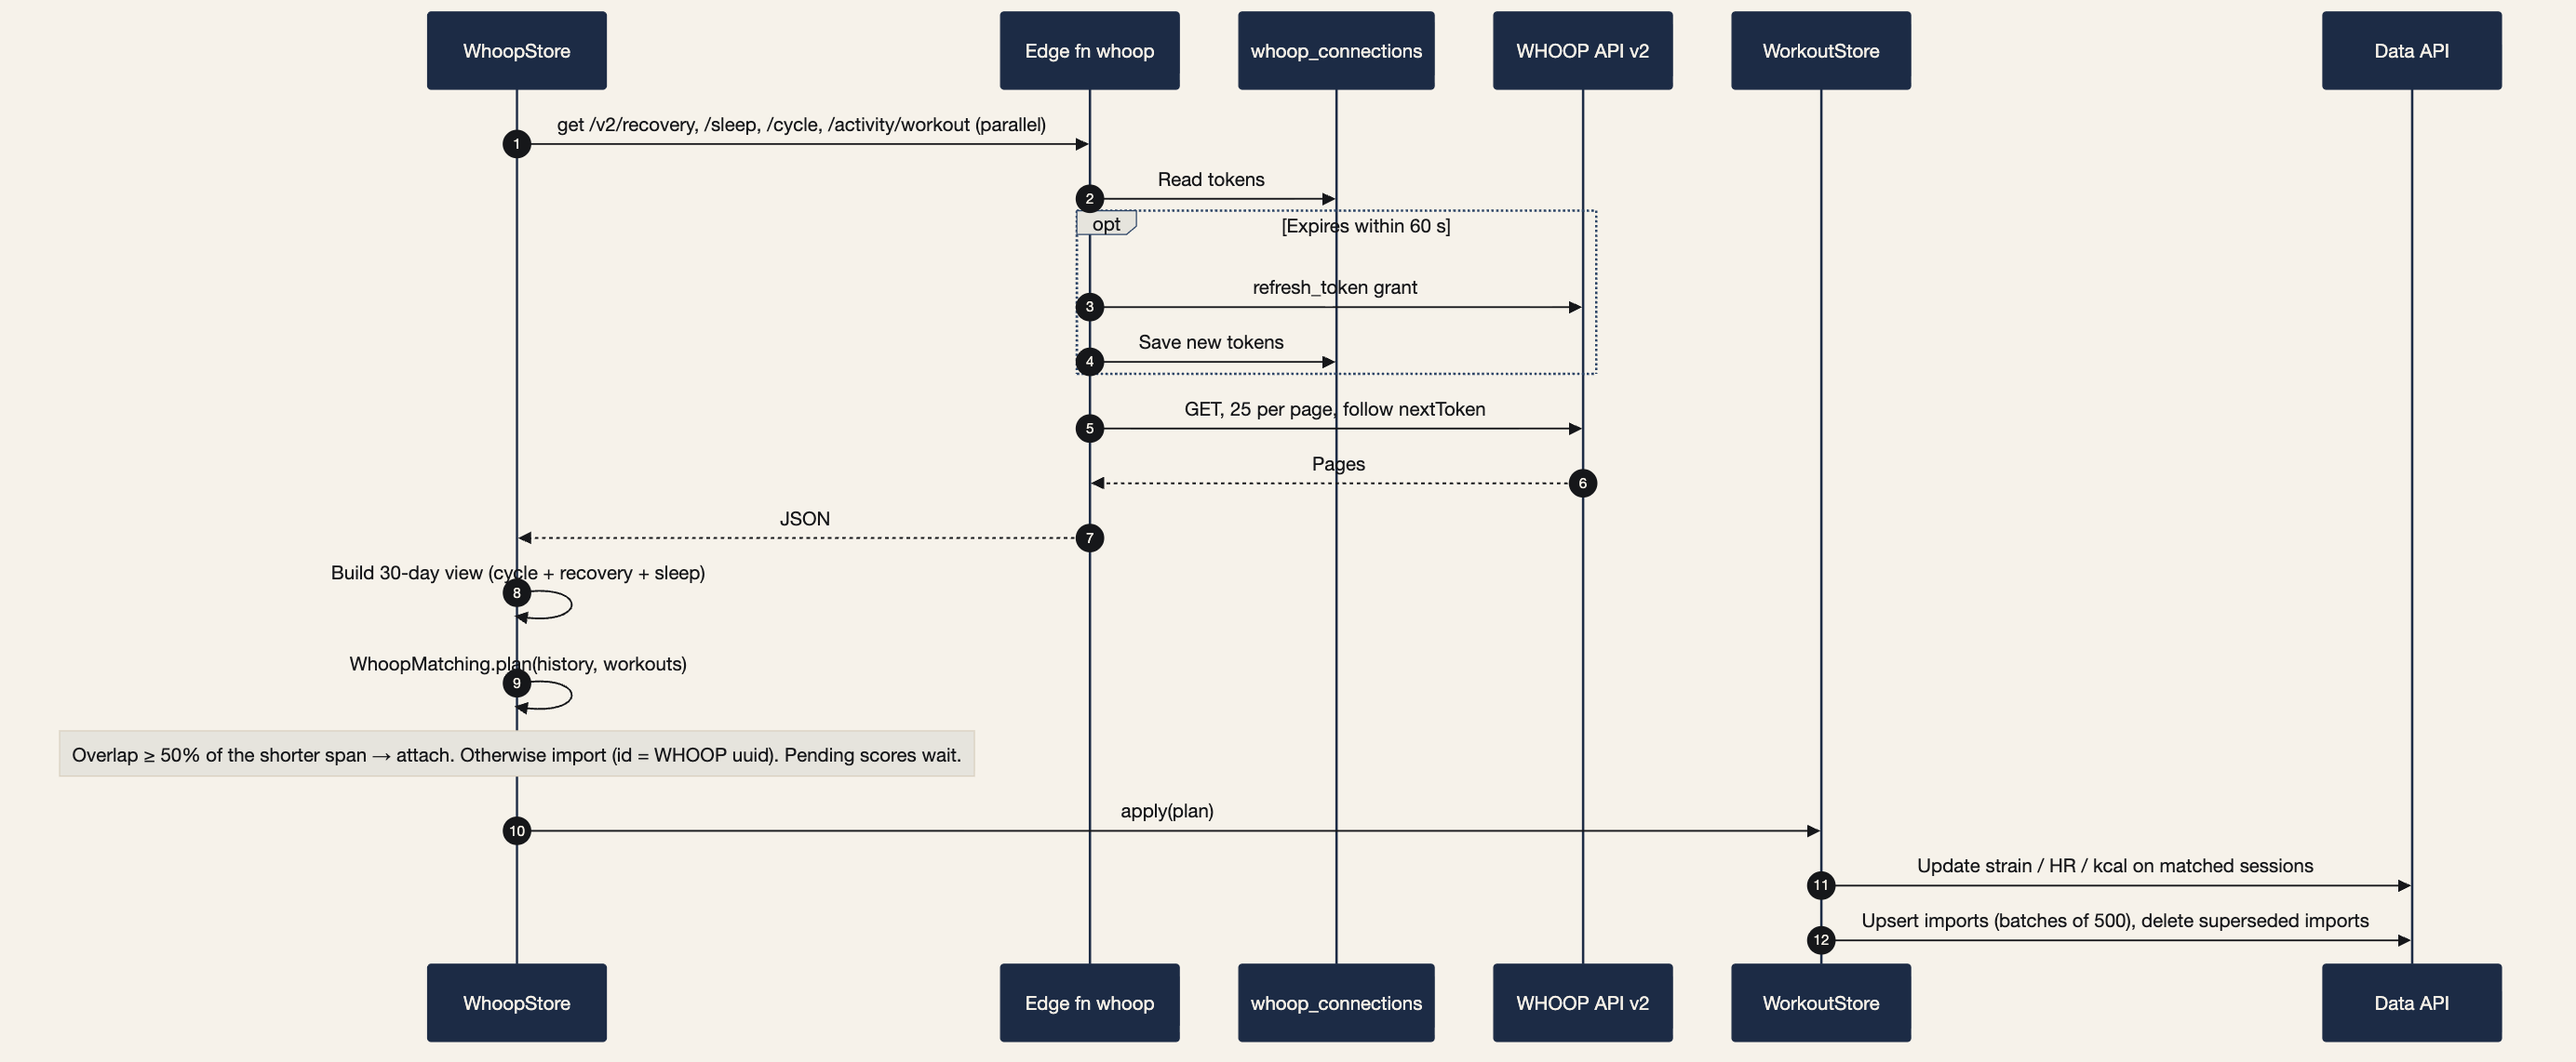
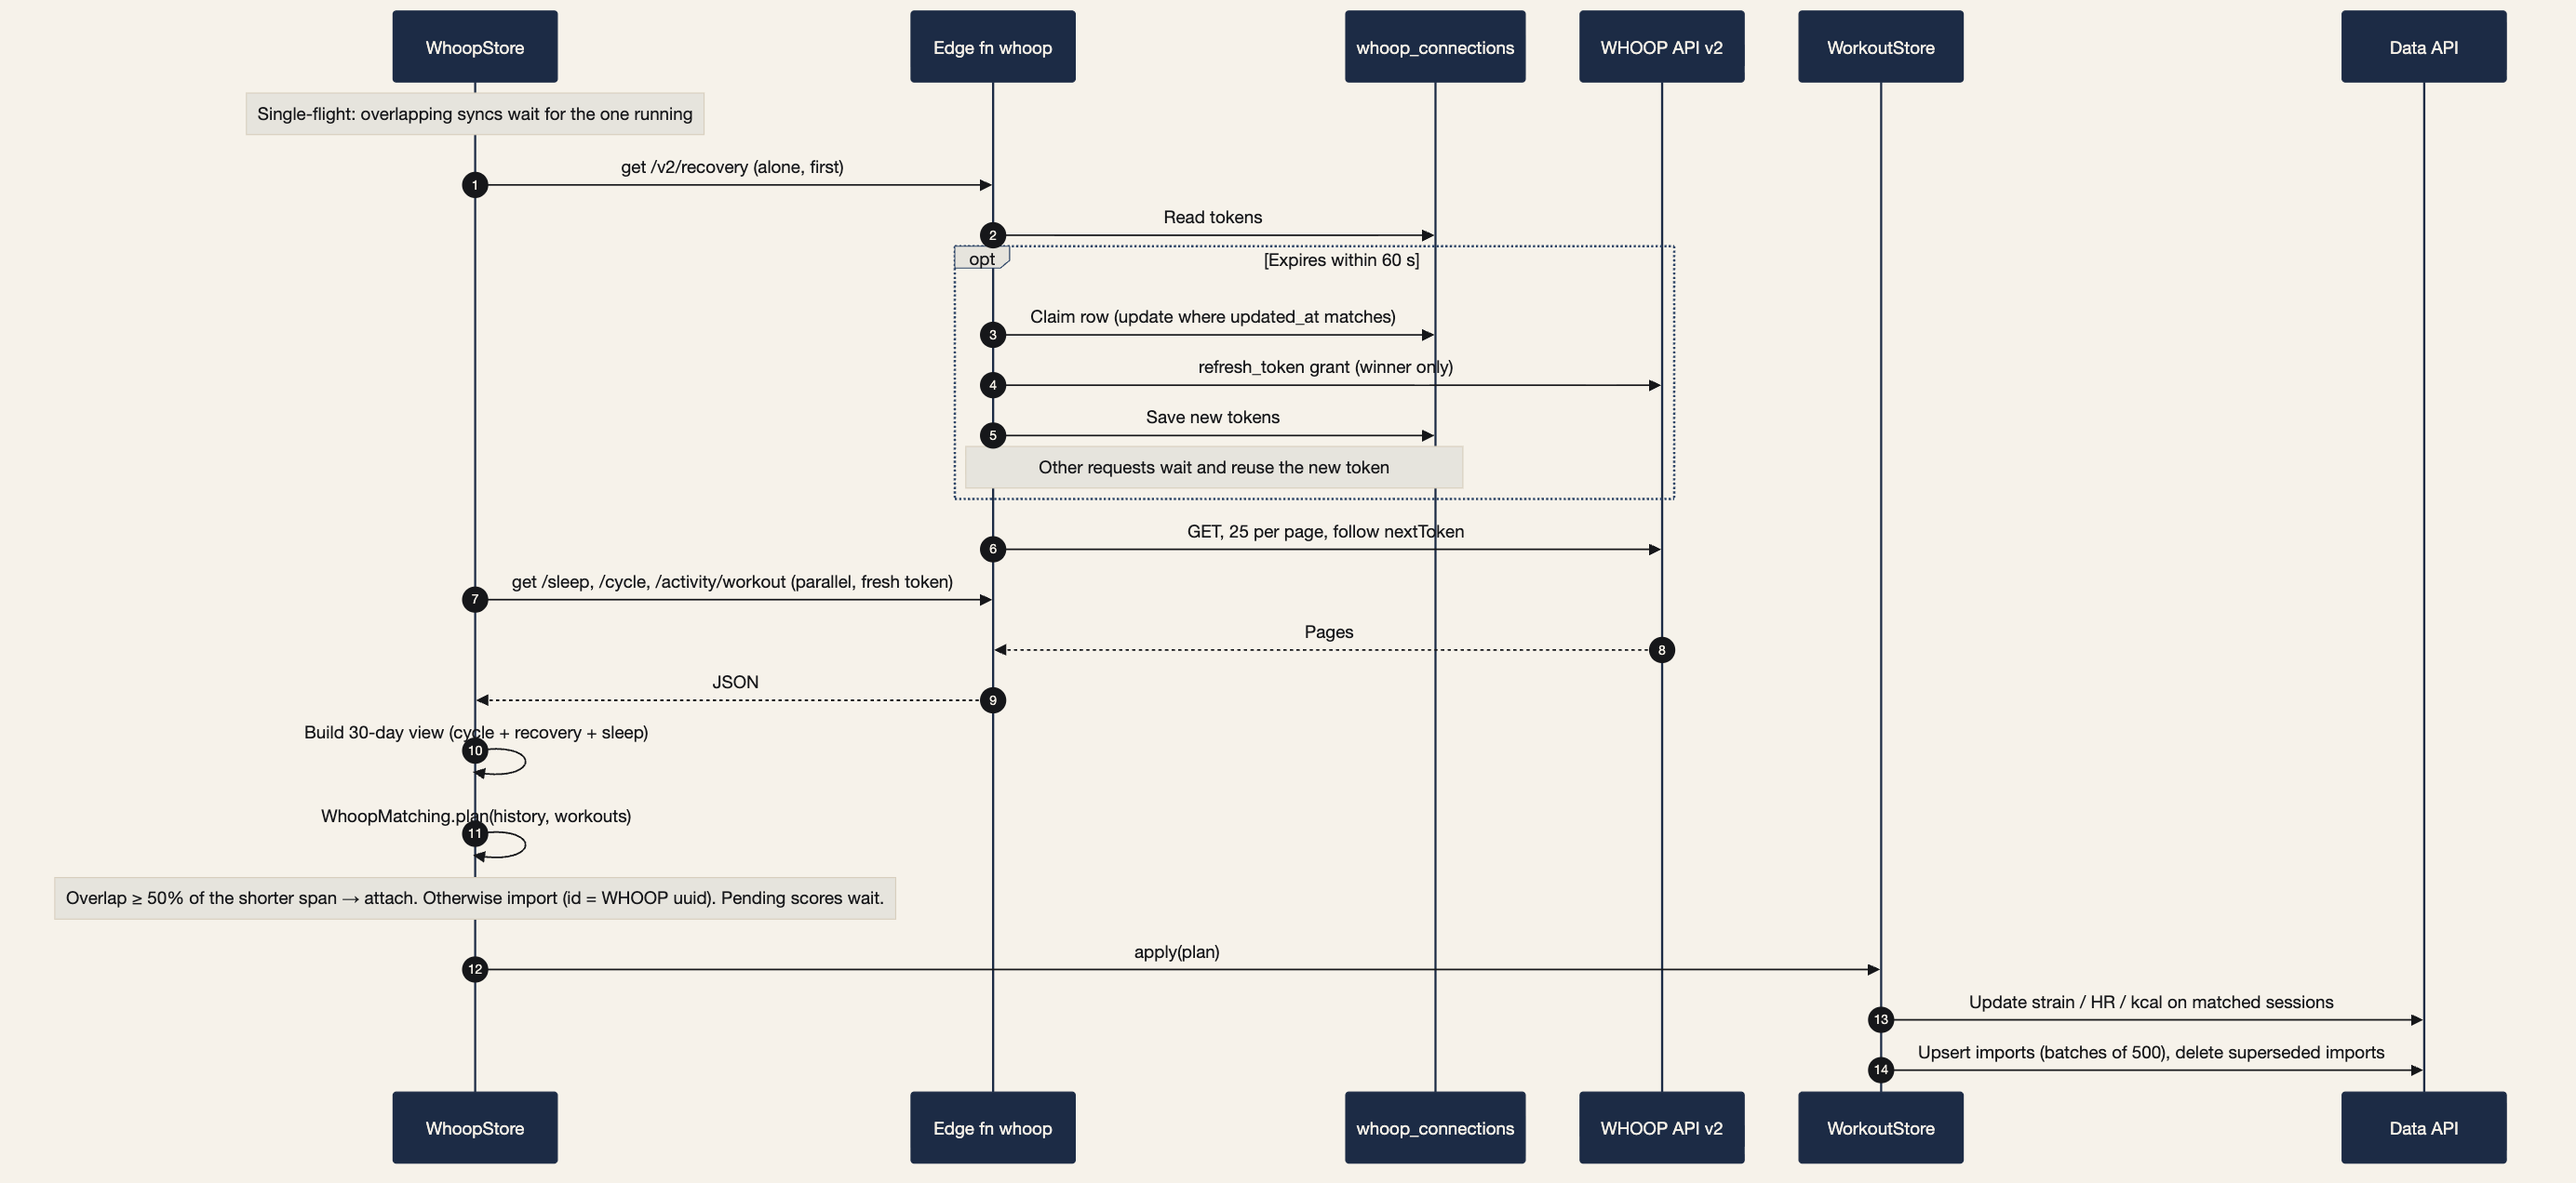
docs: WHOOP token rotation, custom exercises, 52 tests
- Architecture: single-flight sync and token-row claim in the WHOOP
  sequence, custom_exercises in the data model, new decisions, code map
  and migration 4
- README: your-own-exercises and descriptions features, test count,
  roadmap and structure
- Re-rendered data model and WHOOP sync diagrams

diff --git a/docs/ARCHITECTURE.md b/docs/ARCHITECTURE.md
@@ -77,6 +77,15 @@ erDiagram
   workouts ||--o{ workout_exercises : has
   workout_exercises ||--o{ sets : has
   workouts |o--o{ photos : "optional link"
+  custom_exercises {
+    uuid id PK
+    text name
+    text equipment
+    text primary_muscle
+    text_array secondary_muscles
+    text metric "weightReps | bodyweightReps | duration"
+    text description "2-3 lines, shown in the picker"
+  }
   workouts {
     uuid id PK "device-generated; WHOOP import = WHOOP uuid"
     text name
@@ -143,7 +152,9 @@ The exercise decides the metric, not the row (`ExerciseMetric` in `Models/Exerci
 **Other storage**
 
 - The exercise library is `ios/Form/Resources/exercises.json`: 549 exercises from free-exercise-db (public domain), plus 5 built-in holds. Rows store only `exercise_ref`.
-- Also in the schema but not used yet: `routines`, `routine_exercises`, `journal_entries`, `custom_exercises`.
+- Your own exercises live in `custom_exercises`, with a `metric` and a `description`. Their `exercise_ref` is `custom:<uuid>`. They're saved on the phone first (`custom-exercises.json`), pushed to Supabase, and registered with the in-memory library, so every screen sees them.
+- Every bundled exercise gets a 2–3 line description generated from its data: mechanic, main muscle, equipment, secondary muscles, and the first how-to step.
+- Also in the schema but not used yet: `routines`, `routine_exercises`, `journal_entries`.
 
 ---
 
@@ -238,13 +249,17 @@ sequenceDiagram
   participant API as WHOOP API v2
   participant S as WorkoutStore
   participant DB as Data API
-  App->>F: get /v2/recovery, /sleep, /cycle, /activity/workout (parallel)
+  Note over App: Single-flight: overlapping syncs wait for the one running
+  App->>F: get /v2/recovery (alone, first)
   F->>T: Read tokens
   opt Expires within 60 s
-    F->>API: refresh_token grant
+    F->>T: Claim row (update where updated_at matches)
+    F->>API: refresh_token grant (winner only)
     F->>T: Save new tokens
+    Note over F,T: Other requests wait and reuse the new token
   end
   F->>API: GET, 25 per page, follow nextToken
+  App->>F: get /sleep, /cycle, /activity/workout (parallel, fresh token)
   API-->>F: Pages
   F-->>App: JSON
   App->>App: Build 30-day view (cycle + recovery + sleep)
@@ -255,6 +270,14 @@ sequenceDiagram
   S->>DB: Upsert imports (batches of 500), delete superseded imports
 ```
 </details>
+
+**Token rotation.** WHOOP refresh tokens are single-use: presenting one twice fails with `400 invalid_request` and can revoke the chain. So three things guarantee exactly one rotation:
+
+1. `WhoopStore.refresh` is single-flight. Launch, foreground and pull-to-refresh share one running sync.
+2. Recovery is fetched alone first. If the access token has expired, that is the only request that refreshes it. The other three collections then run in parallel with the fresh token.
+3. The edge function claims the token row with an optimistic update on `updated_at`. Only the winner calls WHOOP's token endpoint; any other request waits (up to about 5 s) and reuses the new token.
+
+`WhoopRefreshTests` simulates single-use tokens: the old parallel code fails 3 of 4 requests, the fixed code none.
 
 **Matching rules** (`WhoopMatching.plan`, a pure function with unit tests):
 
@@ -310,6 +333,8 @@ sequenceDiagram
 | **WHOOP secret only on the server** | The client secret and tokens live in the edge function and a table with no client policy. Error details go to function logs, not the app. |
 | **Own `form` schema** | Form shares the Stacked project without table collisions. It must be listed under *Exposed schemas*. |
 | **Bundled exercise library** | No network is needed to search exercises. The exercise decides the metric (weight × reps, bodyweight reps, or hold). |
+| **Exactly one WHOOP token rotation** | Refresh tokens are single-use. The app syncs single-flight and fetches one collection first; the function claims the token row before refreshing. |
+| **Your exercises, local-first** | Custom exercises are saved on the phone, registered with the library, and synced like everything else. The exercise decides the metric, so a timed custom exercise gets the stopwatch. |
 | **Records cached in `WorkoutStore`** | After a WHOOP backfill, history can be thousands of rows. Bests and trends are computed once per history change, not on every redraw. |
 
 ---
@@ -324,9 +349,10 @@ sequenceDiagram
 | Workout | `Features/Workout/*`, `Models/PlateMath.swift`, `Models/Workout.swift` | Active session, loaded bar, holds, rest timer, finish, sync queue |
 | History & records | `Features/History/*`, `Features/Records/*`, `Models/Records.swift` | Weekly history, session editor, PRs, benchmarks, quick log |
 | WHOOP | `Features/Integrations/*`, `Repositories/WhoopClient.swift`, `Models/Whoop.swift`, `supabase/functions/whoop/index.ts` | OAuth, 30-day trends, matching, imports, backfill |
-| Photos | `Features/Photos/*`, `Repositories/PhotoRepository.swift`, `Models/ProgressPhoto.swift` | Ghost camera, timeline, compare, collage, upload queue |
+| Photos | `Features/Photos/*`, `Repositories/PhotoRepository.swift`, `Models/ProgressPhoto.swift` | Ghost camera, timeline, compare, collage, upload queue with failure reasons |
+| Exercises | `Features/Exercises/*`, `Repositories/CustomExerciseRepository.swift`, `Models/CustomExercise.swift` | Your own exercises, descriptions, exercise info card |
 | Database | `supabase/migrations/*.sql` | Schema, RLS, storage policies, hold time, photo weight |
-| Tests | `ios/FormTests/*` (43 tests) | Plate math, workout flow, offline sync, WHOOP matching, benchmarks, photos |
+| Tests | `ios/FormTests/*` (52 tests) | Plate math, workout flow, offline sync, WHOOP matching and token rotation, benchmarks, photos, custom exercises |
 
 Source paths are relative to `ios/Form/Sources/` unless they start with `supabase/` or `ios/`.
 
@@ -334,11 +360,12 @@ Source paths are relative to `ios/Form/Sources/` unless they start with `supabas
 
 ## 6. Operations
 
-**Migrations** (run in the Supabase SQL Editor, in order; the later two are safe to re-run):
+**Migrations** (run in the Supabase SQL Editor, in order; all but the first are safe to re-run):
 
 1. `20260926000000_form_schema.sql`: schema, tables, RLS, storage bucket
 2. `20260926010000_timed_sets.sql`: `sets.duration_seconds`
 3. `20260926020000_photos.sql`: `photos.body_weight_kg`, storage policies
+4. `20260927000000_custom_exercises.sql`: `custom_exercises.metric`, `custom_exercises.description`
 
 **Dashboard settings**
 

diff --git a/README.md b/README.md
@@ -8,7 +8,7 @@
   <img src="https://img.shields.io/badge/SwiftUI-%40Observable-2C4466?style=flat-square" alt="SwiftUI">
   <img src="https://img.shields.io/badge/Supabase-RLS-1C2B45?style=flat-square&logo=supabase&logoColor=3ECF8E" alt="Supabase">
   <img src="https://img.shields.io/badge/WHOOP-API%20v2-5C6D82?style=flat-square" alt="WHOOP API v2">
-  <img src="https://img.shields.io/badge/tests-43%20passing-2C4466?style=flat-square" alt="43 tests passing">
+  <img src="https://img.shields.io/badge/tests-52%20passing-2C4466?style=flat-square" alt="52 tests passing">
   <img src="https://img.shields.io/badge/offline-first-E2632A?style=flat-square" alt="Offline-first">
 </p>
 
@@ -76,6 +76,20 @@ Benchmarks for dead hang, plank, max pull-ups and max push-ups with trends, plus
 
 ### Offline-first
 The active workout is written to disk on every tap and survives the app being killed. Finished sessions and photos queue locally and upload when you're back online. Retries are idempotent, so nothing is ever duplicated.
+
+</td>
+</tr>
+<tr>
+<td valign="top">
+
+### Your own exercises
+Missing a lift? Create it from the picker: name, what a set records (weight × reps, reps or a hold), equipment, muscle and a short description. It's saved on the phone first, then synced, and it works everywhere.
+
+</td>
+<td valign="top">
+
+### Know the lift
+Every exercise has a 2–3 line description in the picker. The ⓘ card adds the muscles worked, how-to steps, a demo image, and your best and last result.
 
 </td>
 </tr>
@@ -169,11 +183,11 @@ form/
 │   │   │   ├── Core/               design system, on-disk persistence
 │   │   │   ├── Models/             exercises, plate math, workouts, records, WHOOP, photos
 │   │   │   ├── Repositories/       Supabase + mock implementations
-│   │   │   └── Features/           Auth · Today · Workout · History · Records · Integrations · Photos
+│   │   │   └── Features/           Auth · Today · Workout · History · Records · Exercises · Integrations · Photos
 │   │   └── Resources/              exercises.json, app icon
-│   └── FormTests/                  43 unit tests
+│   └── FormTests/                  52 unit tests
 ├── supabase/
-│   ├── migrations/                 schema, RLS, storage, timed sets, photo weight
+│   ├── migrations/                 schema, RLS, storage, timed sets, photo weight, custom exercises
 │   └── functions/whoop/            WHOOP OAuth + API proxy
 ├── scripts/                        build_exercises.py, make_icon.py
 └── docs/                           architecture, diagrams, screenshots
@@ -186,7 +200,7 @@ cd ios && xcodebuild test -project Form.xcodeproj -scheme Form \
   -destination 'platform=iOS Simulator,name=iPhone 17'
 ```
 
-The 43 tests cover plate math, the workout flow (focus, rest, holds, crash recovery), offline queues and sync, PRs per metric, WHOOP decoding and matching, and the photo pipeline.
+The 52 tests cover plate math, the workout flow (focus, rest, holds, crash recovery), offline queues and sync, PRs per metric, WHOOP decoding, matching and single-use token rotation, the photo pipeline, and custom exercises.
 
 ## Roadmap
 
@@ -194,6 +208,7 @@ The 43 tests cover plate math, the workout flow (focus, rest, holds, crash recov
 - [x] Timed holds, bodyweight reps, benchmarks and quick log
 - [x] WHOOP: recovery, 30-day trends, strain/HR per session, imports and backfill
 - [x] Progress photos: ghost camera, timeline, compare and collage
+- [x] Your own exercises, and a short description for every exercise
 - [ ] Journal: daily note, mood, energy and body weight, linked to the session and photo
 - [ ] Apple Health: heart-rate curve during sessions, and writing workouts to Health
 - [ ] Routines, and the rest timer as a Live Activity on the lock screen
